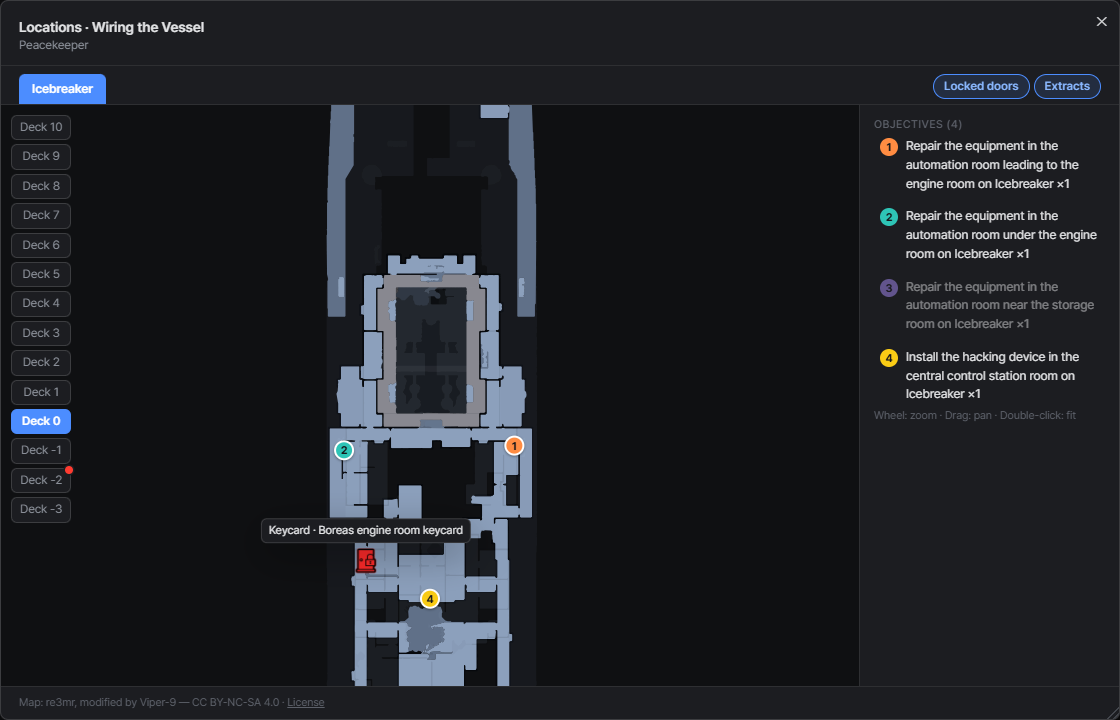
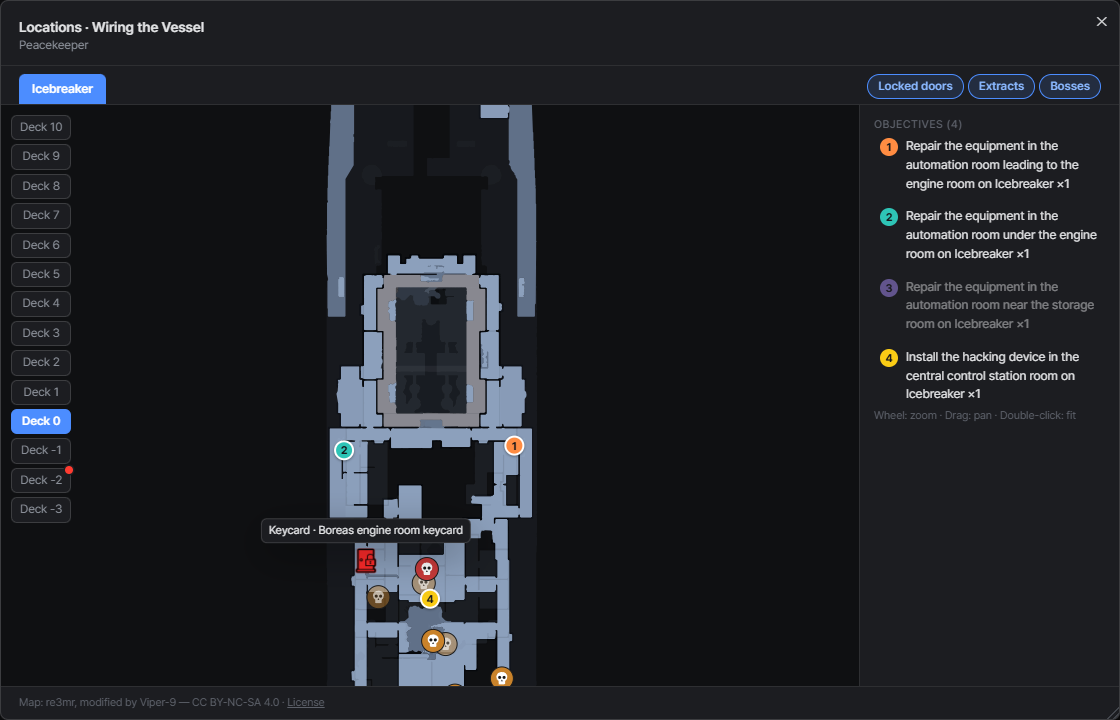
Update the docs for 1.12.0
- Raid prep: Boss spawns section, the Bosses toggle, the Guide button on expanded quests, hidden objectives and fixed quest item spawns
- Quest guide: Kill targets section, and the guide opening from the progress pages
- Quest details: merged any-one-of objectives and the Bosses toggle on the locations map
- Getting started: replace the no-client-plugin note with the BepInEx folder and the F4 hotkey
- Known limitations: boss spawn coverage, map-wide chances and rotating Goons
- Add progress-raid-map-bosses and wiki-guide-enemies, retake the map screenshots now that bosses show by default
- Rebuild the Korean and Russian pages with filled translations

diff --git a/docs/_ru/progress/raid-prep.md b/docs/_ru/progress/raid-prep.md
@@ -25,7 +25,10 @@ nav_order: 2
 
 ## Задания на этой карте {#quests-on-this-map}
 
-Задания с целями на выбранной карте, плюс цели, которые можно выполнить на любой карте, сгруппированные по заданию. Развёртывание задания приглушает цели, относящиеся к другим картам.
+Задания с целями на выбранной карте, плюс цели, которые можно выполнить на любой карте, сгруппированные по заданию. Развёртывание задания приглушает цели, относящиеся к другим картам. В развёрнутом задании рядом с **Открыть в вики** есть и кнопка [**Гид**]({{ '/ru/wiki/quest-guide.html' | relative_url }}).
+
+- Цели, которые игра ещё скрывает (появляются только после предыдущего шага того же задания), не показываются, пока не появятся в игре. В вики они по-прежнему перечислены
+- Квестовые предметы, которые всегда появляются в одном и том же месте, считаются целями на той карте, где они появляются
 
 [![Задания на выбранной карте]({{ '/assets/images/progress-raid-quests.png' | relative_url }})]({{ '/assets/images/progress-raid-quests.png' | relative_url }})
 
@@ -38,12 +41,27 @@ nav_order: 2
 - Строки заданий несут тот же цветной номер, что и их маркеры. Наведите на любую сторону, чтобы подсветить другую
 - Кнопки этажей, области целей и переключатель «Запертые двери» работают как в вики. Значки замков рядом с маркером говорят, какой ключ, возможно, стоит взять
 - **Выходы** показывает выходы и переходы карты. Наведите на значок, чтобы проверить условие и шанс появления, прежде чем планировать отход
+- **Боссы** показывает, где могут появиться боссы. См. [Появление боссов](#boss-spawns) ниже
 
 [![Карточка карты]({{ '/assets/images/progress-raid-map-card.png' | relative_url }})]({{ '/assets/images/progress-raid-map-card.png' | relative_url }})
 
 «Развернуть» открывает карту в перемещаемом окне с изменяемым размером и нумерованным списком заданий. Страница позади остаётся прокручиваемой и кликабельной. Закрыть — кнопкой закрытия или `Esc`.
 
 [![Развёрнутое окно карты]({{ '/assets/images/progress-raid-map-window.png' | relative_url }})]({{ '/assets/images/progress-raid-map-window.png' | relative_url }})
+
+### Появление боссов {#boss-spawns}
+
+Включите **Боссы**, чтобы увидеть значки-черепа в местах появления боссов. На карте локаций задания в вики есть такой же переключатель.
+
+- Наведите на значок, чтобы увидеть, какие боссы там появляются и их шанс на этой карте
+- Оранжевые значки — зоны, где появляются только Рейдеры, Отступники и подобные группы
+- **(ночь)** и **(меняют карты)** отмечают боссов, которые появляются только ночью или переходят между картами, как Гуны. Шанс такого босса действует, только когда он на этой карте
+- Для боссов, которым нужен триггер, вместо шанса написано **нужно условие**
+- Боссы без фиксированной зоны появления перечислены в углу под заголовком **Без точного места**
+
+Шансы берутся из таблицы появления на вашем сервере, поэтому изменения от модов тоже видны здесь.
+
+[![Появление боссов на Береге]({{ '/assets/images/progress-raid-map-bosses.png' | relative_url }})]({{ '/assets/images/progress-raid-map-bosses.png' | relative_url }})
 
 ## Взять с собой / Предметы для лута {#bring-with-you--items-to-loot}
 

diff --git a/docs/_kr/progress/raid-prep.md b/docs/_kr/progress/raid-prep.md
@@ -25,7 +25,10 @@ nav_order: 2
 
 ## 이 맵에서 진행되는 퀘스트 {#quests-on-this-map}
 
-고른 맵에 목표가 있는 퀘스트와, 어느 맵에서나 할 수 있는 목표를 퀘스트별로 묶어 보여 줍니다. 퀘스트를 펼치면 다른 맵의 목표는 흐리게 표시됩니다.
+고른 맵에 목표가 있는 퀘스트와, 어느 맵에서나 할 수 있는 목표를 퀘스트별로 묶어 보여 줍니다. 퀘스트를 펼치면 다른 맵의 목표는 흐리게 표시됩니다. 펼친 퀘스트에는 **위키에서 보기**(Open in wiki) 옆에 [**가이드**(Guide)]({{ '/kr/wiki/quest-guide.html' | relative_url }}) 버튼도 있습니다.
+
+- 게임에서 아직 숨겨진 목표(같은 퀘스트의 앞 단계를 끝내야 나타나는 목표)는 게임에 나타날 때까지 빠집니다. 위키에는 그대로 나옵니다
+- 늘 같은 자리에 스폰되는 퀘스트 아이템은 그 아이템이 나오는 맵의 목표로 칩니다
 
 [![선택한 맵의 퀘스트]({{ '/assets/images/progress-raid-quests.png' | relative_url }})]({{ '/assets/images/progress-raid-quests.png' | relative_url }})
 
@@ -38,12 +41,27 @@ nav_order: 2
 - 퀘스트 행에 마커와 같은 색의 번호가 붙습니다. 한쪽에 마우스를 올리면 다른 쪽도 강조됩니다
 - 층 버튼, 목표 영역, **잠긴 문**(Locked doors) 토글은 위키와 같습니다. 마커 근처의 자물쇠 아이콘으로 챙겨 갈 열쇠를 짐작할 수 있습니다
 - **탈출구**(Extracts)를 켜면 이 맵의 탈출구와 환승 지점이 표시됩니다. 마우스를 올려 조건과 등장 확률을 보고 나갈 길을 정할 수 있습니다
+- **보스**(Bosses)를 켜면 보스가 나오는 곳이 표시됩니다. 아래 [보스 출현](#boss-spawns)을 참고하세요
 
 [![지도 카드]({{ '/assets/images/progress-raid-map-card.png' | relative_url }})]({{ '/assets/images/progress-raid-map-card.png' | relative_url }})
 
 **크게 보기**(Expand)를 누르면 지도가 옮기고 크기를 바꿀 수 있는 창으로 열리고, 번호가 붙은 퀘스트 목록도 함께 보입니다. 창 뒤의 페이지도 그대로 스크롤하고 누를 수 있습니다. 닫기 버튼이나 `Esc`로 닫습니다.
 
 [![크게 보기 창]({{ '/assets/images/progress-raid-map-window.png' | relative_url }})]({{ '/assets/images/progress-raid-map-window.png' | relative_url }})
+
+### 보스 출현 {#boss-spawns}
+
+**보스**(Bosses)를 켜면 보스가 나오는 곳에 해골 마커가 찍힙니다. 위키의 퀘스트 위치 지도에도 같은 토글이 있습니다.
+
+- 마커에 마우스를 올리면 그곳에 나오는 보스와 이 맵에서의 등장 확률이 나옵니다
+- 주황색 마커는 레이더·로그처럼 무리로 나오는 적만 있는 구역입니다
+- **(밤)**(night)은 밤에만 나오는 보스, **(순환)**(rotating)은 군즈처럼 맵을 옮겨 다니는 보스입니다. 순환 보스의 확률은 그 맵에 있을 때의 값입니다
+- 특정 조건을 만족해야 나오는 보스는 확률 대신 **조건부**(needs a trigger)로 표시됩니다
+- 정해진 출현 구역이 없는 보스는 구석의 **위치 정해지지 않음**(No fixed location) 목록에 나옵니다
+
+확률은 서버의 보스 출현 표에서 읽어 오므로, 모드가 확률을 바꿨다면 바뀐 값이 나옵니다.
+
+[![해안선의 보스 출현]({{ '/assets/images/progress-raid-map-bosses.png' | relative_url }})]({{ '/assets/images/progress-raid-map-bosses.png' | relative_url }})
 
 ## 챙겨 갈 아이템 / 파밍할 아이템 {#bring-with-you--items-to-loot}
 

diff --git a/docs/_ru/wiki/quest-details.md b/docs/_ru/wiki/quest-details.md
@@ -17,6 +17,8 @@ nav_order: 2
 
 Нажмите на строку задания — она развернётся на месте с целями, требованиями, наградами (включая награды при принятии и при провале) и ссылками на предварительные условия и открываемые задания. Несколько строк могут оставаться открытыми одновременно.
 
+Если в задании достаточно выполнить любую из нескольких целей, они показаны одной целью с пометкой **(любой из N)**, и засчитывается прогресс по любой из них.
+
 [![Развёрнутое задание]({{ '/assets/images/wiki-quest-detail.png' | relative_url }})]({{ '/assets/images/wiki-quest-detail.png' | relative_url }})
 
 ## Переходы по цепочке {#chain-jumps}
@@ -38,6 +40,7 @@ nav_order: 2
 - Колесо — зум, перетаскивание — панорама, двойной клик — подогнать
 - **Запертые двери** показывает значки замков для запертых дверей и дверей с ключ-картами. Наведите на значок, чтобы увидеть нужный ключ
 - **Выходы** показывает выходы и переходы значками-щитами разного цвета для выходов ЧВК, общих и для Диких. Наведите на значок, чтобы увидеть название и сторону, а также условие (например, плата или снаряжение для подъёма) и шанс появления, если они есть. Выходы на других этажах показаны приглушённо
+- **Боссы** показывает места появления боссов значками-черепами. Как их читать, см. [Появление боссов]({{ '/ru/progress/raid-prep.html#boss-spawns' | relative_url }}) в разделе «Подготовка к рейду»
 
 QuestCodex не знает, каким заданиям нужен ключ, но карта доводит вас почти до конца: если маркер стоит рядом со значком замка, наведите на него, чтобы увидеть, какой ключ открывает эту дверь, и сами решите, брать ли его.
 

diff --git a/docs/progress/raid-prep.md b/docs/progress/raid-prep.md
@@ -26,7 +26,12 @@ it yet, such as the Icebreaker, so you can still check its extracts and locked d
 ## Quests on this map
 
 Quests with objectives on the selected map, plus objectives you can do on any map, grouped per quest.
-Expanding a quest dims the objectives that belong to other maps.
+Expanding a quest dims the objectives that belong to other maps. An expanded quest also has a
+[**Guide**](../wiki/quest-guide.html) button next to **Open in wiki**.
+
+- Objectives the game still hides (ones that show up only after an earlier step of the same quest) stay out
+  until they appear in game. The wiki still lists them
+- Quest items that always spawn in the same place count as objectives on the map where they spawn
 
 [![Quests on the selected map](../assets/images/progress-raid-quests.png)](../assets/images/progress-raid-quests.png)
 
@@ -43,6 +48,7 @@ with all the quests on this map at once.
   marker tell you which key you may want to bring
 - **Extracts** shows the map's extracts and transits. Hover one to check its requirement and spawn chance
   before you plan your way out
+- **Bosses** shows where bosses can spawn. See [Boss spawns](#boss-spawns) below
 
 [![Map card](../assets/images/progress-raid-map-card.png)](../assets/images/progress-raid-map-card.png)
 
@@ -50,6 +56,21 @@ with all the quests on this map at once.
 stays scrollable and clickable. Close it with the close button or `Esc`.
 
 [![Expanded map window](../assets/images/progress-raid-map-window.png)](../assets/images/progress-raid-map-window.png)
+
+### Boss spawns
+
+Turn on **Bosses** to see skull markers where bosses spawn. The wiki's quest locations map has the same toggle.
+
+- Hover a marker to see which bosses spawn there and their chance on this map
+- Orange markers are zones with only Raiders, Rogues or similar groups
+- **(night)** and **(rotating)** mark bosses that appear only at night or move between maps, like the Goons.
+  A rotating boss's chance applies only when it's on this map
+- Bosses that need a trigger show **needs a trigger** instead of a chance
+- Bosses without a fixed spawn zone are listed in the corner under **No fixed location**
+
+The chances come from your server's spawn table, so a mod that changes them shows here too.
+
+[![Boss spawns on Shoreline](../assets/images/progress-raid-map-bosses.png)](../assets/images/progress-raid-map-bosses.png)
 
 ## Bring with you / Items to loot
 

diff --git a/docs/_ru/getting-started.md b/docs/_ru/getting-started.md
@@ -15,12 +15,12 @@ nav_order: 2
 ## Требования {#requirements}
 
 - SPT-сервер ~4.1.6
-- Без клиентского плагина. Это только серверный мод, BepInEx не требуется.
+- Горячую клавишу в игре даёт клиентский плагин из того же архива. Если она вам не нужна, папку `BepInEx` можно не устанавливать.
 
 ## Установка {#installation}
 
 1. Скачайте `QuestCodex-<версия>.zip` со страницы [Releases](https://github.com/Viper-9/QuestCodex/releases).
-2. Распакуйте и перезапишите папку `SPT_Runtime` в корне вашей установки SPT (например, `C:\SPT` — родительская папка для `SPT_Runtime`, в которой лежит `SPT.Server.exe`).
+2. Распакуйте и перезапишите папки `SPT_Runtime` и `BepInEx` в корне вашей установки SPT (например, `C:SPT` — родительская папка для `SPT_Runtime`, в которой лежит `SPT.Server.exe`).
 3. Перезапустите сервер.
 
 {: .note-ru }
@@ -33,6 +33,7 @@ nav_order: 2
 - Если появится предупреждение о сертификате — продолжите. Это тот же самоподписанный сертификат, что использует веб-страница SPT-сервера.
 - SPT-сервер привязан только к `127.0.0.1`, поэтому страница открывается только в браузере на машине, где запущен сервер. Телефоны и другие ПК не смогут подключиться.
 - Можно держать её открытой на втором мониторе во время игры. Она только для чтения и не влияет на игру.
+- В игре нажмите **`F4`**, чтобы открыть её в браузере по умолчанию. Клавишу можно сменить в настройках BepInEx (F12).
 
 ## Язык и тема {#language-and-theme}
 

diff --git a/docs/_ru/wiki/quest-guide.md b/docs/_ru/wiki/quest-guide.md
@@ -8,7 +8,7 @@ nav_order: 3
 # Гид по заданию
 {: .no_toc }
 
-Нажмите кнопку **Guide** на задании, чтобы увидеть, что взять перед рейдом.
+Нажмите кнопку **Гид** на задании, чтобы увидеть, что взять перед рейдом. Та же кнопка есть в развёрнутом задании на страницах прогресса.
 
 1. TOC
 {:toc}
@@ -18,6 +18,7 @@ nav_order: 3
 ## Что показывает {#what-it-shows}
 
 - Карту, на которой происходит задание
+- Кто засчитывается в целях на убийство и попадания: любые ЧВК, Дикие или конкретные боссы и свита
 - Разрешённое оружие, калибры и моды
 - Требуемое или запрещённое снаряжение
 - Предметы для передачи или установки, с требованиями «найдено в рейде»
@@ -30,6 +31,12 @@ nav_order: 3
 Длинные списки сворачиваются до первых нескольких записей. Нажмите **+N ещё**, чтобы увидеть все.
 
 [![Разрешённое оружие]({{ '/assets/images/wiki-guide-weapons.png' | relative_url }})]({{ '/assets/images/wiki-guide-weapons.png' | relative_url }})
+
+## Цели убийства {#kill-targets}
+
+Для целей на убийство и попадания засчитываемые противники перечислены в строках **Цели убийства** или **Цели попаданий**. «Любые Дикие» включают боссов, свиту, Рейдеров и Отступников — так же, как их считает игра.
+
+[![Цели убийства для The Punisher - Part 6]({{ '/assets/images/wiki-guide-enemies.png' | relative_url }})]({{ '/assets/images/wiki-guide-enemies.png' | relative_url }})
 
 ## Перемещение и изменение размера {#moving-and-resizing}
 

diff --git a/docs/_kr/wiki/quest-details.md b/docs/_kr/wiki/quest-details.md
@@ -17,6 +17,8 @@ nav_order: 2
 
 퀘스트 행을 누르면 그 자리에서 펼쳐지며 목표, 시작 조건, 보상(수락 시·실패 시 보상 포함), 선행·후속 퀘스트가 보입니다. 여러 행을 동시에 펼쳐 둘 수 있습니다.
 
+여러 목표 중 하나만 하면 되는 퀘스트는 그 목표들이 끝에 **(N개 중 하나)**(any one of N)가 붙은 목표 하나로 합쳐 보이고, 어느 쪽 진행도든 반영됩니다.
+
 [![펼친 퀘스트]({{ '/assets/images/wiki-quest-detail.png' | relative_url }})]({{ '/assets/images/wiki-quest-detail.png' | relative_url }})
 
 ## 연계 이동 {#chain-jumps}
@@ -38,6 +40,7 @@ nav_order: 2
 - 휠로 확대, 드래그로 이동, 더블클릭으로 전체 보기
 - **잠긴 문**(Locked doors)을 켜면 잠긴 문과 키카드 문에 자물쇠 아이콘이 표시되고, 마우스를 올리면 필요한 열쇠 이름이 나옵니다
 - **탈출구**(Extracts)를 켜면 탈출구와 환승 지점이 방패 아이콘으로 표시됩니다. PMC·공용·스캐브 탈출구는 색으로 구분됩니다. 마우스를 올리면 이름과 진영이 나오고, 조건(예: 요금, 등반 장비)과 등장 확률이 있으면 같이 나옵니다. 다른 층의 탈출구는 흐리게 그려집니다
+- **보스**(Bosses)를 켜면 보스가 나오는 곳이 해골 마커로 표시됩니다. 읽는 법은 레이드 준비의 [보스 출현]({{ '/kr/progress/raid-prep.html#boss-spawns' | relative_url }})을 참고하세요
 
 어떤 퀘스트에 열쇠가 필요한지는 QuestCodex가 직접 알려 주지 않습니다. 대신 지도에서 마커 주변에 자물쇠 아이콘이 있다면, 마우스를 올려 어떤 열쇠로 여는 문인지 확인하고 그 열쇠를 챙겨 갈지 어느 정도 짐작할 수 있습니다.
 

diff --git a/docs/_ru/limitations.md b/docs/_ru/limitations.md
@@ -27,6 +27,12 @@ QuestCodex читает таблицы заданий, которые серве
 - Позиции выходов и переходов берутся из встроенных данных, поэтому выход, добавленный или перемещённый модом, может отсутствовать или стоять не там.
 - QuestCodex не отслеживает, какие ключи у вас есть. Значки замков говорят, какой ключ нужен для двери, и не более.
 
+## Появление боссов {#boss-spawns}
+
+- Показываются только ванильные боссы. Боссы, добавленные модами, не отображаются.
+- Шанс — это шанс босса на всей карте, а не в конкретной точке. Босс с несколькими зонами может появиться в любой из них.
+- QuestCodex не знает, на какой карте сейчас Гуны, поэтому показывает их на всех картах, между которыми они переходят.
+
 ## Пути открытия {#unlock-paths}
 
 Сводка пути сверяет требуемый уровень с вашим профилем, но лояльность и репутация у торговцев только перечисляются и не проверяются. «Осталось квестов» считает только задания.

diff --git a/docs/_kr/getting-started.md b/docs/_kr/getting-started.md
@@ -15,12 +15,12 @@ nav_order: 2
 ## 요구 사항 {#requirements}
 
 - SPT 서버 `~4.1.6`
-- **클라이언트 플러그인 없음.** 서버 모드만 있고 BepInEx는 쓰지 않습니다.
+- 게임 안에서 여는 단축키는 zip 에 함께 든 클라이언트 플러그인이 담당합니다. 필요 없으면 `BepInEx` 폴더는 설치하지 않아도 됩니다.
 
 ## 설치 {#installation}
 
 1. [Releases](https://github.com/Viper-9/QuestCodex/releases)에서 `QuestCodex-<버전>.zip`을 받습니다.
-2. 압축을 풀고 나온 `SPT_Runtime` 폴더를 SPT 설치 루트(예: `C:\SPT`, `SPT.Server.exe`가 든 `SPT_Runtime` 폴더의 상위 폴더)에 덮어씁니다.
+2. 압축을 풀고 나온 `SPT_Runtime`, `BepInEx` 폴더를 SPT 설치 루트(예: `C:SPT`, `SPT.Server.exe`가 든 `SPT_Runtime` 폴더의 상위 폴더)에 덮어씁니다.
 3. 서버를 재시작합니다.
 
 {: .note-kr }
@@ -33,6 +33,7 @@ nav_order: 2
 - 인증서 경고가 나오면 그대로 진행하면 됩니다. SPT 서버 웹 페이지와 같은 자체 서명 인증서입니다.
 - SPT 서버는 `127.0.0.1`에만 열리므로 **서버를 실행한 PC의 브라우저에서만** 열립니다. 휴대폰이나 다른 PC에서는 접속할 수 없습니다.
 - 게임하면서 보조 모니터에 띄워 두셔도 됩니다. 읽기 전용이라 게임에 영향을 주지 않습니다.
+- 게임 안에서 **`F4`** 를 누르면 기본 브라우저로 열립니다. 단축키는 BepInEx 설정(F12)에서 바꿀 수 있습니다.
 
 ## 언어와 테마 {#language-and-theme}
 

diff --git a/docs/_kr/wiki/quest-guide.md b/docs/_kr/wiki/quest-guide.md
@@ -8,7 +8,7 @@ nav_order: 3
 # 퀘스트 가이드
 {: .no_toc }
 
-퀘스트의 **가이드**(Guide) 버튼을 누르면 레이드 전에 챙길 것을 볼 수 있습니다.
+퀘스트의 **가이드**(Guide) 버튼을 누르면 레이드 전에 챙길 것을 볼 수 있습니다. 진행현황 페이지에서 퀘스트를 펼쳐도 같은 버튼이 있습니다.
 
 1. TOC
 {:toc}
@@ -18,6 +18,7 @@ nav_order: 3
 ## 보여 주는 것 {#what-it-shows}
 
 - 퀘스트를 진행하는 맵
+- 처치·명중 목표에서 인정되는 대상: 모든 PMC, 스캐브, 특정 보스·경호원 등
 - 허용 무기, 구경, 부착물
 - 필수 장비나 착용 금지 장비
 - 제출하거나 설치할 아이템과 FIR(인레이드 획득) 조건
@@ -30,6 +31,12 @@ nav_order: 3
 긴 목록은 앞의 몇 개만 보이고, **+N more**를 누르면 전부 펼쳐집니다.
 
 [![허용 무기]({{ '/assets/images/wiki-guide-weapons.png' | relative_url }})]({{ '/assets/images/wiki-guide-weapons.png' | relative_url }})
+
+## 처치 대상 {#kill-targets}
+
+처치·명중 목표에는 인정되는 적이 **처치 대상**(Kill targets) 또는 **명중 대상**(Hit targets)으로 나옵니다. "모든 스캐브 진영 AI"에는 게임 판정과 똑같이 보스·경호원·레이더·로그가 포함됩니다.
+
+[![The Punisher - Part 6 의 처치 대상]({{ '/assets/images/wiki-guide-enemies.png' | relative_url }})]({{ '/assets/images/wiki-guide-enemies.png' | relative_url }})
 
 ## 이동과 크기 조절 {#moving-and-resizing}
 

diff --git a/docs/wiki/quest-guide.md b/docs/wiki/quest-guide.md
@@ -7,7 +7,8 @@ nav_order: 3
 # Quest guide
 {: .no_toc }
 
-Hit the **Guide** button on a quest to see what to bring before a raid.
+Hit the **Guide** button on a quest to see what to bring before a raid. The same button sits in an expanded quest
+in the Progress pages.
 
 1. TOC
 {:toc}
@@ -17,6 +18,7 @@ Hit the **Guide** button on a quest to see what to bring before a raid.
 ## What it shows
 
 - The map the quest takes place on
+- Who counts for kill and hit objectives: any PMC, Scavs, or specific bosses and guards
 - Allowed weapons, calibers and mods
 - Required or banned gear
 - Items to hand over or plant, with found-in-raid requirements
@@ -29,6 +31,13 @@ Mod items are included too.
 Long lists collapse to the first few entries. Click **+N more** to see them all.
 
 [![Allowed weapons](../assets/images/wiki-guide-weapons.png)](../assets/images/wiki-guide-weapons.png)
+
+## Kill targets
+
+Kill and hit objectives list the enemies that count under **Kill targets** or **Hit targets**. "Any Scav-side AI"
+includes bosses, guards, Raiders and Rogues, the same way the game counts them.
+
+[![Kill targets for The Punisher - Part 6](../assets/images/wiki-guide-enemies.png)](../assets/images/wiki-guide-enemies.png)
 
 ## Moving and resizing
 

diff --git a/docs/getting-started.md b/docs/getting-started.md
@@ -14,12 +14,12 @@ nav_order: 2
 ## Requirements
 
 - SPT server `~4.1.6`
-- **No client plugin.** This is a server mod only, no BepInEx involved.
+- The in-game hotkey comes from the client plugin in the same zip. Skip the `BepInEx` folder if you don't want it.
 
 ## Installation
 
 1. Download `QuestCodex-<version>.zip` from [Releases](https://github.com/Viper-9/QuestCodex/releases).
-2. Extract it and overwrite the resulting `SPT_Runtime` folder into your SPT install root (e.g. `C:\SPT`,
+2. Extract it and overwrite the resulting `SPT_Runtime` and `BepInEx` folders into your SPT install root (e.g. `C:\SPT`,
    the parent folder of the `SPT_Runtime` folder containing `SPT.Server.exe`).
 3. Restart the server.
 
@@ -36,6 +36,7 @@ You can also reach it from the mod card on the SPT server web page (`https://127
 - The SPT server binds to `127.0.0.1` only, so the page opens **only in a browser on the machine running
   the server**. Phones and other PCs cannot reach it.
 - You can keep it open on a second monitor while playing. It's read-only and doesn't touch the game.
+- In game, press **`F4`** to open it in your default browser. You can change the key in the BepInEx config (F12).
 
 ## Language and theme
 
